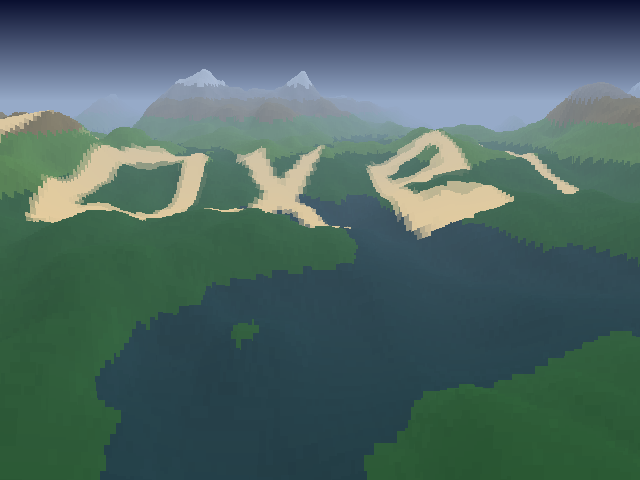
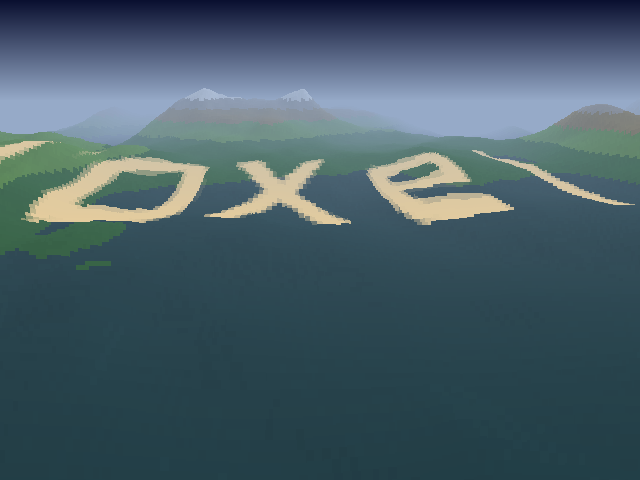
ts-voxel: gentler terrain and smooth camera flight

diff --git a/files/effects/ts-voxel/src/voxel.ts b/files/effects/ts-voxel/src/voxel.ts
@@ -27,12 +27,16 @@ const TEXT_TINT = RGBA.toUInt32(0xff, 0xd8, 0x90);
 const DRAW_DISTANCE = 400;
 const HORIZON = 100; // screen line of the horizon
 const HEIGHT_SCALE = 240; // vertical projection factor
-export const RELIEF = 0.45; // terrain heights (0..255) to world units
+export const RELIEF = 0.3; // terrain heights (0..255) to world units
 const FOV = 1.0; // tan of the half field of view
 
 const CAMERA_SPEED = 1.5; // map units per frame
 const CAMERA_CLEARANCE = 55; // altitude above the terrain ahead
 const CAMERA_FLOOR = 20; // minimum altitude above the ground
+const CAMERA_SPRING = 0.002; // pull toward the target altitude
+const CAMERA_DAMPING = 0.06; // vertical speed damping
+const CAMERA_MAX_ACCEL = 0.04; // max change of vertical speed per frame
+const CAMERA_MAX_SPEED = 0.5; // max vertical speed per frame
 
 const SKY_TOP = [10, 16, 48];
 const SKY_HORIZON = [150, 170, 200];
@@ -42,29 +46,43 @@ export interface Camera {
     x: number;
     y: number;
     z: number; // altitude
+    vz: number; // vertical speed
     angle: number; // yaw (0 = looking toward +y)
 }
 
 //----- functions
-// move the camera forward with a slow sway, its altitude following the ground
-export function moveCamera(cam: Camera, terrain: Terrain, frame: number): void {
-    cam.angle = 0.15 * Math.sin(frame * 0.007);
-    cam.x += 0.6 * Math.sin(frame * 0.01) + CAMERA_SPEED * Math.sin(cam.angle);
-    cam.y += CAMERA_SPEED * Math.cos(cam.angle);
-
-    // follow the average ground from the camera to the text band, so the text
-    // stays in view; never go lower than the hills just ahead
+/* altitude the camera aims for: above the average ground from the camera to
+ * the text band (so the text stays in view), and well above the hills just
+ * ahead
+ */
+export function cruiseAltitude(cam: Camera, terrain: Terrain): number {
     let sum = 0;
     let near = 0;
     const ahead = [0, 30, 60, 90, 130, 170, 210];
     for (const d of ahead) {
         const h = RELIEF * terrain.heightAt(cam.x + d * Math.sin(cam.angle), cam.y + d * Math.cos(cam.angle));
         sum += h;
-        if (d <= 30 && h > near) near = h;
+        if (d <= 90 && h > near) near = h;
     }
+    return Math.max(sum / ahead.length + CAMERA_CLEARANCE, near + 2 * CAMERA_FLOOR);
+}
 
-    cam.z += (sum / ahead.length + CAMERA_CLEARANCE - cam.z) * 0.05;
-    cam.z = Math.max(cam.z, near + CAMERA_FLOOR);
+// move the camera forward with a slow sway, its altitude following the ground
+export function moveCamera(cam: Camera, terrain: Terrain, frame: number): void {
+    cam.angle = 0.15 * Math.sin(frame * 0.007);
+    cam.x += 0.6 * Math.sin(frame * 0.01) + CAMERA_SPEED * Math.sin(cam.angle);
+    cam.y += CAMERA_SPEED * Math.cos(cam.angle);
+
+    // ease toward the target altitude: a damped spring with bounded speed and
+    // acceleration, so the flight never jolts
+    const target = cruiseAltitude(cam, terrain);
+    const accel = (target - cam.z) * CAMERA_SPRING - cam.vz * CAMERA_DAMPING;
+    cam.vz += Math.max(-CAMERA_MAX_ACCEL, Math.min(CAMERA_MAX_ACCEL, accel));
+    cam.vz = Math.max(-CAMERA_MAX_SPEED, Math.min(CAMERA_MAX_SPEED, cam.vz));
+    cam.z += cam.vz;
+
+    // safety net: never under the ground
+    cam.z = Math.max(cam.z, RELIEF * terrain.heightAt(cam.x, cam.y) + CAMERA_FLOOR);
 }
 
 /* number of glyphs in the text band and its left edge (map x)
@@ -98,7 +116,7 @@ export class Voxel extends IAnimation {
 
         this.font_ = new Font("/images/assets/ts-voxel.font-map.png", { width: FONT_SIZE, height: FONT_SIZE });
         this.terrain_ = new Terrain(TERRAIN_SEED);
-        this.camera_ = { x: 0, y: 0, z: 0, angle: 0 };
+        this.camera_ = { x: 0, y: 0, z: 0, vz: 0, angle: 0 };
         this.scroll_ = 0;
 
         this.ybuffer_ = new Int32Array(this.width_);
@@ -114,8 +132,9 @@ export class Voxel extends IAnimation {
             this.sky_.fill(c, y * this.width_, (y + 1) * this.width_);
         }
 
-        // first position of the camera
+        // first position of the camera, already at its cruising altitude
         moveCamera(this.camera_, this.terrain_, 0);
+        this.camera_.z = cruiseAltitude(this.camera_, this.terrain_);
     }
 
     // paint the visible part of the text in the band ahead of the camera

diff --git a/tests/effects/voxel.test.ts b/tests/effects/voxel.test.ts
@@ -9,7 +9,7 @@
 import { describe, test, expect } from "vitest";
 
 import { Terrain, MAP_SIZE } from "../../files/effects/ts-voxel/src/terrain";
-import { moveCamera, textLayout, Camera, RELIEF } from "../../files/effects/ts-voxel/src/voxel";
+import { moveCamera, cruiseAltitude, textLayout, Camera, RELIEF } from "../../files/effects/ts-voxel/src/voxel";
 
 //----- tests
 describe("ts-voxel terrain", () => {
@@ -97,12 +97,33 @@ describe("ts-voxel terrain", () => {
 describe("ts-voxel camera", () => {
     test("camera stays above the terrain", () => {
         const terrain = new Terrain(0x5eed);
-        const cam: Camera = { x: 0, y: 0, z: 0, angle: 0 };
+        const cam: Camera = { x: 0, y: 0, z: 0, vz: 0, angle: 0 };
         for (let frame = 0; frame <= 2000; frame++) {
             moveCamera(cam, terrain, frame);
             expect(Number.isFinite(cam.x)).toBe(true);
             expect(Number.isFinite(cam.y)).toBe(true);
             expect(cam.z).toBeGreaterThanOrEqual(RELIEF * terrain.heightAt(cam.x, cam.y) + 20);
+        }
+    });
+});
+
+describe("ts-voxel smooth flight", () => {
+    test("altitude changes slowly and without jolts", () => {
+        const terrain = new Terrain(0x5eed);
+        const cam: Camera = { x: 0, y: 0, z: 0, vz: 0, angle: 0 };
+        // start at cruising altitude, like the effect
+        moveCamera(cam, terrain, 0);
+        cam.z = cruiseAltitude(cam, terrain);
+
+        let speed = cam.vz;
+        for (let frame = 1; frame <= 4000; frame++) {
+            const z = cam.z;
+            moveCamera(cam, terrain, frame);
+            const v = cam.z - z;
+            // vertical speed (units / frame) and its change (no sudden kick)
+            expect(Math.abs(v)).toBeLessThanOrEqual(0.6);
+            expect(Math.abs(v - speed)).toBeLessThanOrEqual(0.05);
+            speed = v;
         }
     });
 });

diff --git a/files/effects/ts-voxel/src/terrain.ts b/files/effects/ts-voxel/src/terrain.ts
@@ -85,7 +85,7 @@ export class Terrain {
                 let a = 1;
                 for (let o = 0; o < OCTAVES.length; o++) {
                     v += periodicNoise(grids[o], OCTAVES[o], x, y) * a;
-                    a *= 0.5;
+                    a *= 0.4; // softer details: rolling hills rather than crags
                 }
                 raw[y * MAP_SIZE + x] = v;
                 if (v < min) min = v;
@@ -93,10 +93,10 @@ export class Terrain {
             }
         }
 
-        // normalise, then flatten the valleys
+        // normalise, then widen the flat valleys (fewer, rounder peaks)
         for (let i = 0; i < raw.length; i++) {
             const n = (raw[i] - min) / (max - min);
-            this.height[i] = Math.round(255 * Math.pow(n, 1.6));
+            this.height[i] = Math.round(255 * Math.pow(n, 2.2));
         }
     }
 

diff --git a/files/effects/ts-voxel/README.md b/files/effects/ts-voxel/README.md
@@ -13,7 +13,8 @@
 The landscape is two 512x512 maps that wrap on every side (the camera flies forever):
 
 - a **height map**, made of 5 octaves of value noise. Each octave uses a lattice whose size divides
-  512, so the map tiles seamlessly.
+  512, so the map tiles seamlessly. The fine octaves are kept weak and the heights are curved
+  (`h^2.2`) so the landscape is mostly gentle valleys with a few rounded peaks.
 - a **colour map**, computed once from the height (water, grass, rock, snow) and lit by the slope.
 
 ### Voxel renderer
@@ -36,6 +37,12 @@ a fixed distance in front of the camera, then removed before the next frame. The
 map as usual, so the letters bend over the hills and dip into the valleys. The glyphs are stretched
 along the flight direction to compensate for the perspective, and the camera altitude follows the
 average ground between itself and the text so the band stays in view.
+
+### Smooth flight
+
+The camera altitude is a damped spring pulled toward a cruising altitude (above the average ground up
+to the text, and above the hills in the next 90 units). Its vertical speed and acceleration are capped,
+so the flight glides over the hills instead of jolting.
 
 ## **License**
 
